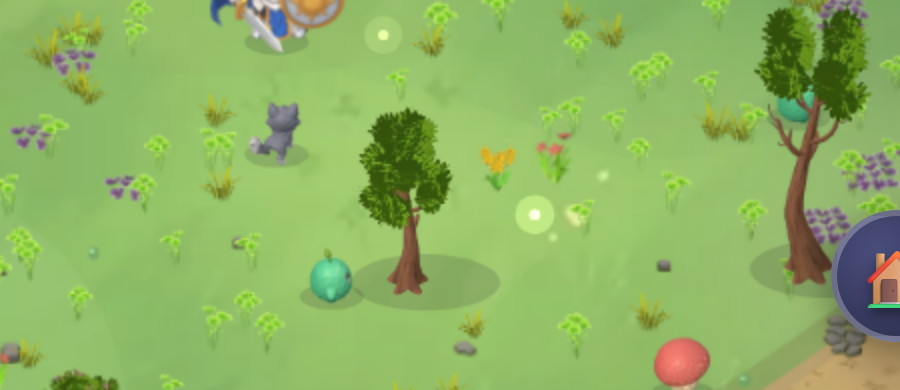
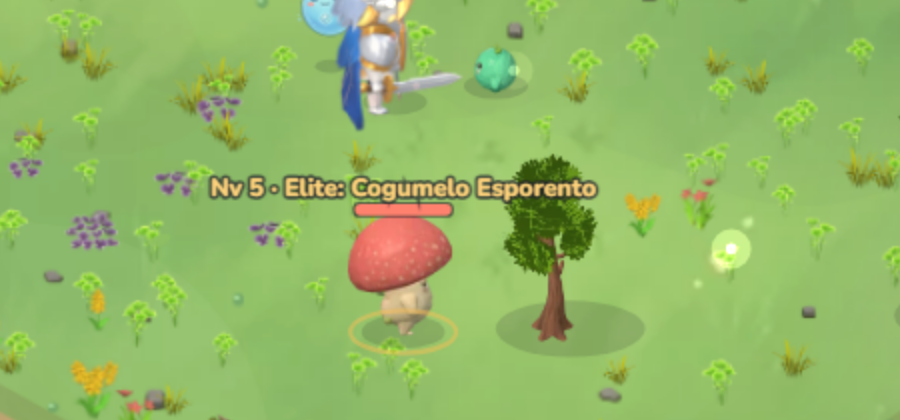
Cogumelo: rebakeado com camera mais baixa (18 graus) para mostrar rosto e corpo sob o chapeu, maior; mob-bake aceita elevacao

diff --git a/public/src/render/renderer.js b/public/src/render/renderer.js
@@ -619,7 +619,7 @@ function drawMob(g, a, t) {
     circle(g, -sep + fx * 2.5, y + Math.max(0, fy) * 1.5, r); g.fill();
     circle(g, sep + fx * 2.5, y + Math.max(0, fy) * 1.5, r); g.fill();
   };
-  // Pintados (assets/mobs, sem desenho por código): slime, wolf, shroom, treant, crystalwolf, wisp, wraith, knight, guardian. Sobra o golem (também gargoyle/colossus no código) até ter arte.
+  // Pintados (assets/mobs, sem desenho por código): slime, wolf, shroom, treant, crystalwolf, wisp, wraith, knight, guardian. Sobra o colosso (shape golem no código) até ter arte.
   switch (M.shape) {
     // slime: só existe pintado (assets/mobs/slime); o desenho antigo foi removido
     case 'golem': {

diff --git a/public/src/render/mob-sprites.js b/public/src/render/mob-sprites.js
@@ -27,7 +27,7 @@ function loadIndex() {
 }
 
 // Quanto o desenho da célula (com margem) é mais alto que o raio de colisão da criatura; ajustável por criatura.
-const ART = { default: { h: 3.4 }, slime: { h: 3.0 }, treant: { h: 5.2 }, colossus: { h: 5.2 }, guardian: { h: 5.4 }, wolf: { h: 3.1 }, crystalwolf: { h: 2.8 }, wisp: { h: 3.0 }, wraith: { h: 3.4 } };
+const ART = { default: { h: 3.4 }, slime: { h: 3.0 }, treant: { h: 5.2 }, shroom: { h: 4.2 }, guardian: { h: 5.4 }, wolf: { h: 3.1 }, crystalwolf: { h: 2.8 }, wisp: { h: 3.0 }, wraith: { h: 3.4 } };
 
 function load(id) {
   let it = items.get(id);

diff --git a/docs/CREDITOS.md b/docs/CREDITOS.md
@@ -54,4 +54,4 @@ Modelos 3D do Meshy (CC BY 4.0) fotografados em 8 direções por `tools/mob-bake
 Geleia (`slime`) e Lobo Cinzento (`wolf`): modelos 3D gerados no Meshy a partir de imagens de conceito do proprietário, fotografados em 8 direções por `tools/mob-bake.mjs` (`public/assets/mobs/`). Imagens de conceito: origem/licença a confirmar.
 Cogumelo Esporento (`shroom`): mesma origem (Meshy, CC BY 4.0), animado por deformação `waddle`.
 Carvalho Ancestral (`treant`, chefe do Bosque): mesma origem (Meshy, CC BY 4.0).
-Lobo de Cristal, Fogo-fátuo, Colosso de Cristal, Espectro, Cavaleiro Caído, Gárgula e Guardião das Ruínas: mesma origem (Meshy, CC BY 4.0); os seis últimos vieram num só GLB (`Chibi_Fantasy_Guardia`), separados por peças em `tools/mob-bake.mjs`.
+Lobo de Cristal, Fogo-fátuo, Golem de Quartzo, Espectro, Cavaleiro Caído, Gárgula e Guardião das Ruínas: mesma origem (Meshy, CC BY 4.0); os seis últimos vieram num só GLB (`Chibi_Fantasy_Guardia`), separados por peças em `tools/mob-bake.mjs`.
